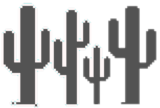
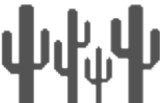
made startScreen + altered states

Changed region(s): [[0.0, 0.0291, 1.0, 1.0]]

diff --git a/sketch.js b/sketch.js
@@ -27,7 +27,8 @@ let choices;
 let lastTimeSwitched = 0;
 let duration = 70;
 
-let state = "isLeftFoot";
+let state1 = "startScreen";
+let state2 = "isLeftFoot";
 //state jumping
 //state dead
 //92 97
@@ -49,7 +50,7 @@ let startTime;
 class Dinosour{
   constructor(x, y){
     this.x = 60;
-    this.y = height - height/3.8;
+    this.y = height - height/4.5;
     this.w = height/7;
     this.h = this.w;
     this.gravity = 2.8;
@@ -58,7 +59,7 @@ class Dinosour{
   }
 
   jump(){
-    if(this.y === height - height/3.8){
+    if(this.y === height - height/4.5){
       this.velocity = -45;
     }
       
@@ -67,41 +68,50 @@ class Dinosour{
   run(){
     this.y += this.velocity;
     this.velocity += this.gravity;
-    this.y = constrain(this.y, height/20, height - height/3.8);
+    this.y = constrain(this.y, height/20, height - height/4.5);
   }
 
   display(){
     // rect(this.x, this.y, this.w, this.w);
-    if(state === "isLeftFoot"){
-      image(dinoleft, this.x, this.y, this.w, this.w);
-    }
-    else if(state === "isRightFoot"){
-      image(dinoRight, this.x, this.y, this.w, this.w);
-    }
-    else if(state === "isDinoJump"){
+    
+    if(state1 === "startScreen"){
       image(dinoJump, this.x, this.y, this.w, this.w);
     }
-    
+    else if(state1 === "playing"){
+      if(state2 === "isLeftFoot"){
+        image(dinoleft, this.x, this.y, this.w, this.w);
+      }
+      else if(state2 === "isRightFoot"){
+        image(dinoRight, this.x, this.y, this.w, this.w);
+      }
+      else if(state2 === "isDinoJump"){
+        image(dinoJump, this.x, this.y, this.w, this.w);
+      }
+    }
   }
 
   switchBetweenDinos(){
-    if(state === "isLeftFoot" && millis()> lastTimeSwitched + duration){
-      state = "isRightFoot";
+    
+    if(state2 === "isLeftFoot" && millis()> lastTimeSwitched + duration){
+      state2 = "isRightFoot";
       lastTimeSwitched = millis();
     }
-    else if(state === "isRightFoot" && millis()> lastTimeSwitched + duration){
-      state = "isLeftFoot";
+    else if(state2 === "isRightFoot" && millis()> lastTimeSwitched + duration){
+      state2 = "isLeftFoot";
       lastTimeSwitched = millis();
     }
-    else if(state === "isDinoJump" && millis() > lastTimeSwitched + 700){
-      state = "isLeftFoot";
+    else if(state2 === "isDinoJump" && millis() > lastTimeSwitched + 700){
+      state2 = "isLeftFoot";
       lastTimeSwitched = millis();
     }
+    
+    
+    
   }
   
   collision(Cactus){
     
-     hit = collideRectRect(this.x, this.y, this.w, this.h, Cactus.x, Cactus.y, Cactus.w, Cactus.h);
+    hit = collideRectRect(this.x, this.y, this.w, this.h, Cactus.x, Cactus.y, Cactus.w, Cactus.h);
     
     
     if(hit){
@@ -114,7 +124,7 @@ let hit;
 class Cactus{
   constructor(x, y, imageOfCactai){
     this.x = width;
-    this.y = height - height/6 - height/8.5,
+    this.y = height - height/6 - height/10.5,
     //178
     this.h = height/6;
     //50
@@ -180,51 +190,66 @@ function windowResized() {
 
 
 function draw(){
-  background(grassBackground);
-  // time();
-  //200
-  // let distance = random(110, 200);
-  if(frameCount % 150 === 0){
-    cactais = new Cactus(this.x, this.y, this.imageOfCactai);
-    Cactai.push(cactais);
+  if(state1 === "startScreen"){
+    startScreen();
+
   }
+  else if(state1 === "playing"){
+    background(grassBackground);
+    time();
+    //200
+    // let distance = random(110, 200);
+    if(frameCount % 150 === 0){
+      cactais = new Cactus(this.x, this.y, this.imageOfCactai);
+      Cactai.push(cactais);
+    }
   
 
-  for(let theCactai of Cactai){
+    for(let theCactai of Cactai){
     
-    if(theCactai.disapeared()){
-      let index = Cactai.indexOf(theCactai);
-      Cactai.splice(index, 1);
+      if(theCactai.disapeared()){
+        let index = Cactai.indexOf(theCactai);
+        Cactai.splice(index, 1);
+      }
+      else{
+        theCactai.move();
+        theCactai.display();
+        dino.collision(theCactai);
+      }
     }
-    else{
-      theCactai.move();
-      theCactai.display();
-      dino.collision(theCactai);
-    }
+    dino.switchBetweenDinos();
+    dino.run();
+    dino.display();
   }
-  dino.switchBetweenDinos();
-  dino.run();
-  dino.display();
+  
   
 }
 
 function keyPressed(){
-  if(key === " "){
+  if(key === " " && state1 === "startScreen"){
+    state1 = "playing";
+  }
+  else if(key === " " && state1 === "playing"){
     dino.jump();
-    state = "isDinoJump";
+    state2 = "isDinoJump";
     lastTimeSwitched = millis();
   }
 }
 
+function startScreen(){
+  background(grassBackground);
+  dino.display();
+}
 
-// function time(){
-//   milliSecond = int(millis()/100);
-//   if(mouseIsPressed){
-//     startTime = int(millis()/100);
-//   }
-//   if (milliSecond > 0){
-//     milliSecond = milliSecond - startTime; //minus the millis from total from millis of start screen
-//   }
-//   text(milliSecond, width/2, height/2);
-// }
+function time(){
+  milliSecond = int(millis()/100);
+  if(state2 === "isDinoJump"){
+    startTime = int(millis()/100);
+  }
+  
+  if (milliSecond > 0){
+    milliSecond = milliSecond - startTime; //minus the millis from total from millis of start screen
+  }
+  text(milliSecond, width - 50, 40);
+}
 
